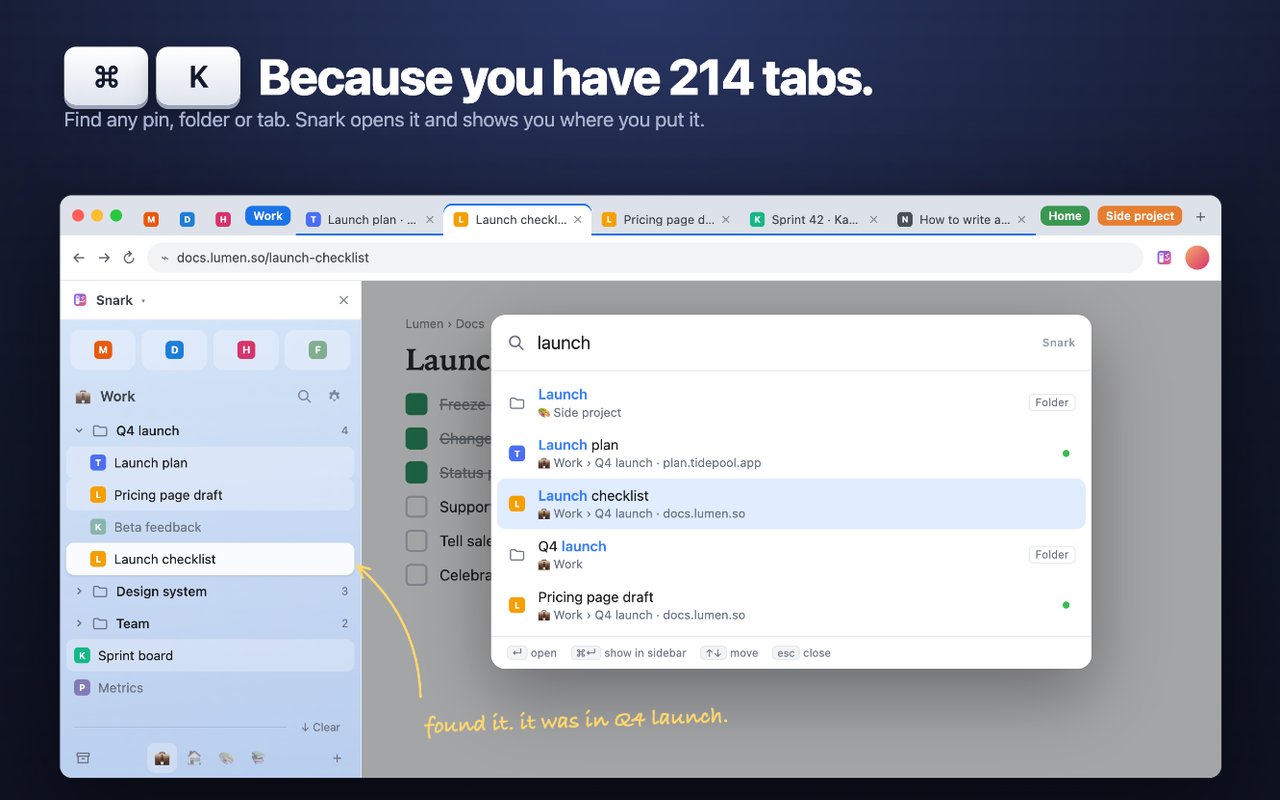
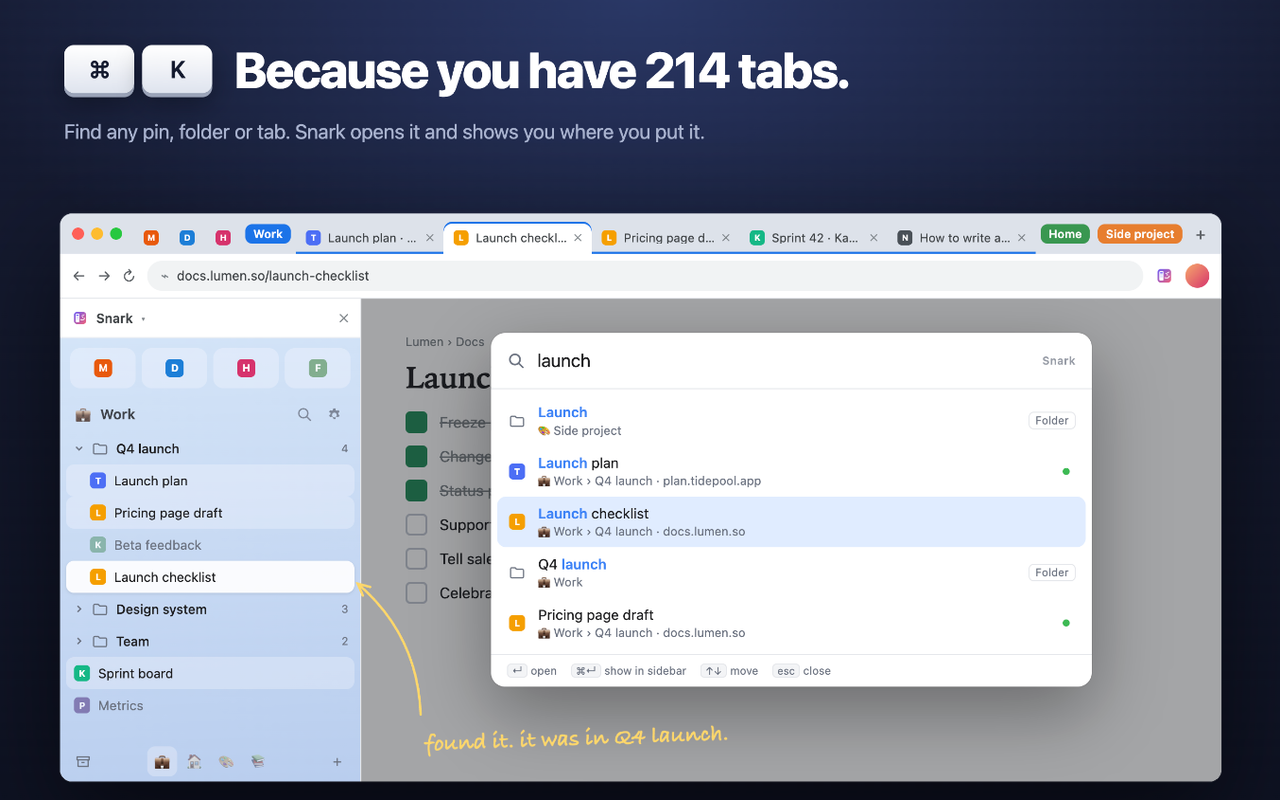
Store image 4: smaller keycaps, more room under the headline

diff --git a/tools/store/graphics.css b/tools/store/graphics.css
@@ -149,8 +149,11 @@ body.capture .fit { border-radius: 0; box-shadow: none; }
 .a4 { --accent: #8fb3ff; color: #fff; background: radial-gradient(1000px 500px at 50% 0%, #2a3866 0%, transparent 70%), linear-gradient(180deg, #161c33 0%, #0e1222 100%); }
 .a4 .hl { color: #fff; font-size: 50px; display: flex; align-items: center; gap: 18px; }
 .a4 .lede { color: #aab4d0; }
+.a4 .top { top: 44px; }
+.a4 .top > div { display: grid; gap: 22px; }
+.keys { margin-right: 4px; }
 .keys { display: inline-flex; gap: 8px; }
-.keys kbd { display: grid; place-items: center; min-width: 60px; height: 58px; padding: 0 12px; border-radius: 12px; font: 600 30px var(--display); color: var(--ink); background: linear-gradient(#ffffff, #dfe4ee); box-shadow: 0 4px 0 #9aa3b8, 0 10px 24px rgba(0, 0, 0, .35); }
+.keys kbd { display: grid; place-items: center; min-width: 50px; height: 48px; padding: 0 10px; border-radius: 10px; font: 600 24px var(--display); color: var(--ink); background: linear-gradient(#ffffff, #dfe4ee); box-shadow: 0 4px 0 #9aa3b8, 0 10px 24px rgba(0, 0, 0, .35); }
 .a4 .win { box-shadow: 0 40px 100px rgba(0, 0, 0, .55), 0 0 0 1px rgba(255, 255, 255, .08); }
 .a4 .callout { color: #ffd66b; }
 .a4 .arrows path { stroke: #ffd66b; }
